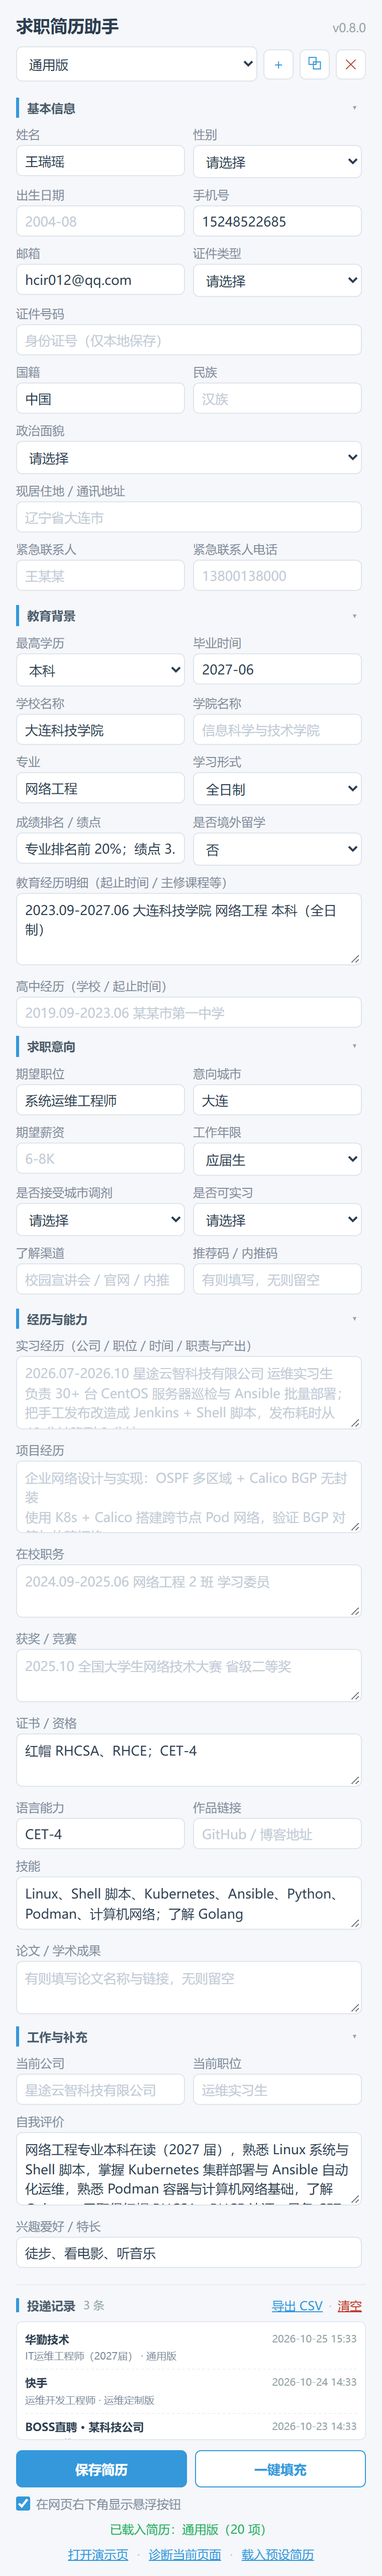
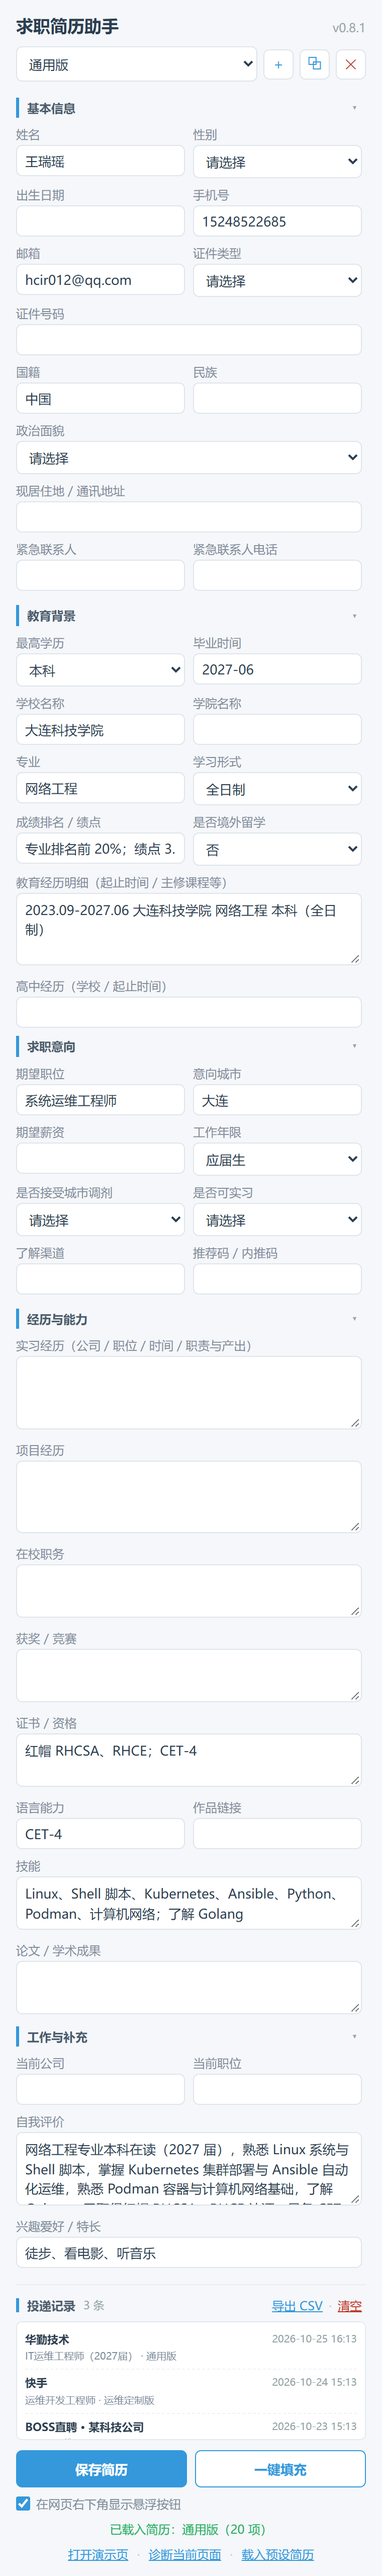
fix: 表单去掉 35 处灰色占位示例文字，空字段保持空白，v0.8.1

diff --git a/popup.html b/popup.html
@@ -30,7 +30,7 @@
         <div class="row">
           <label class="field">
             <span class="field-label">姓名</span>
-            <input type="text" name="name" placeholder="王瑞瑶" />
+            <input type="text" name="name" />
           </label>
           <label class="field">
             <span class="field-label">性别</span>
@@ -45,18 +45,18 @@
         <div class="row">
           <label class="field">
             <span class="field-label">出生日期</span>
-            <input type="text" name="birth" placeholder="2004-08" />
+            <input type="text" name="birth" />
           </label>
           <label class="field">
             <span class="field-label">手机号</span>
-            <input type="tel" name="phone" placeholder="15248522685" />
+            <input type="tel" name="phone" />
           </label>
         </div>
 
         <div class="row">
           <label class="field">
             <span class="field-label">邮箱</span>
-            <input type="email" name="email" placeholder="hcir012@qq.com" />
+            <input type="email" name="email" />
           </label>
           <label class="field">
             <span class="field-label">证件类型</span>
@@ -72,17 +72,17 @@
 
         <label class="field">
           <span class="field-label">证件号码</span>
-          <input type="text" name="idCard" placeholder="身份证号（仅本地保存）" />
+          <input type="text" name="idCard" />
         </label>
 
         <div class="row">
           <label class="field">
             <span class="field-label">国籍</span>
-            <input type="text" name="nationality" placeholder="中国" />
+            <input type="text" name="nationality" />
           </label>
           <label class="field">
             <span class="field-label">民族</span>
-            <input type="text" name="nation" placeholder="汉族" />
+            <input type="text" name="nation" />
           </label>
         </div>
 
@@ -101,17 +101,17 @@
 
         <label class="field">
           <span class="field-label">现居住地 / 通讯地址</span>
-          <input type="text" name="address" placeholder="辽宁省大连市" />
+          <input type="text" name="address" />
         </label>
 
         <div class="row">
           <label class="field">
             <span class="field-label">紧急联系人</span>
-            <input type="text" name="emergencyContact" placeholder="王某某" />
+            <input type="text" name="emergencyContact" />
           </label>
           <label class="field">
             <span class="field-label">紧急联系人电话</span>
-            <input type="tel" name="emergencyPhone" placeholder="13800138000" />
+            <input type="tel" name="emergencyPhone" />
           </label>
         </div>
       </details>
@@ -133,25 +133,25 @@
           </label>
           <label class="field">
             <span class="field-label">毕业时间</span>
-            <input type="text" name="graduationYear" placeholder="2027-06" />
+            <input type="text" name="graduationYear" />
           </label>
         </div>
 
         <div class="row">
           <label class="field">
             <span class="field-label">学校名称</span>
-            <input type="text" name="school" placeholder="大连科技学院" />
+            <input type="text" name="school" />
           </label>
           <label class="field">
             <span class="field-label">学院名称</span>
-            <input type="text" name="college" placeholder="信息科学与技术学院" />
+            <input type="text" name="college" />
           </label>
         </div>
 
         <div class="row">
           <label class="field">
             <span class="field-label">专业</span>
-            <input type="text" name="major" placeholder="网络工程" />
+            <input type="text" name="major" />
           </label>
           <label class="field">
             <span class="field-label">学习形式</span>
@@ -166,7 +166,7 @@
         <div class="row">
           <label class="field">
             <span class="field-label">成绩排名 / 绩点</span>
-            <input type="text" name="gpaRank" placeholder="专业前 20%；绩点 3.14" />
+            <input type="text" name="gpaRank" />
           </label>
           <label class="field">
             <span class="field-label">是否境外留学</span>
@@ -180,12 +180,12 @@
 
         <label class="field">
           <span class="field-label">教育经历明细（起止时间 / 主修课程等）</span>
-          <textarea name="eduDetail" rows="3" placeholder="2023.09-2027.06 大连科技学院 网络工程 本科（全日制）&#10;专业排名前 20%；主修计算机网络、Linux 系统管理、K8s 容器编排"></textarea>
+          <textarea name="eduDetail" rows="3"></textarea>
         </label>
 
         <label class="field">
           <span class="field-label">高中经历（学校 / 起止时间）</span>
-          <input type="text" name="highSchool" placeholder="2019.09-2023.06 某某市第一中学" />
+          <input type="text" name="highSchool" />
         </label>
       </details>
 
@@ -196,18 +196,18 @@
         <div class="row">
           <label class="field">
             <span class="field-label">期望职位</span>
-            <input type="text" name="expectPosition" placeholder="系统运维工程师" />
+            <input type="text" name="expectPosition" />
           </label>
           <label class="field">
             <span class="field-label">意向城市</span>
-            <input type="text" name="expectCity" placeholder="大连 / 上海" />
+            <input type="text" name="expectCity" />
           </label>
         </div>
 
         <div class="row">
           <label class="field">
             <span class="field-label">期望薪资</span>
-            <input type="text" name="expectSalary" placeholder="6-8K" />
+            <input type="text" name="expectSalary" />
           </label>
           <label class="field">
             <span class="field-label">工作年限</span>
@@ -244,11 +244,11 @@
         <div class="row">
           <label class="field">
             <span class="field-label">了解渠道</span>
-            <input type="text" name="sourceChannel" placeholder="校园宣讲会 / 官网 / 内推" />
+            <input type="text" name="sourceChannel" />
           </label>
           <label class="field">
             <span class="field-label">推荐码 / 内推码</span>
-            <input type="text" name="referrerCode" placeholder="有则填写，无则留空" />
+            <input type="text" name="referrerCode" />
           </label>
         </div>
       </details>
@@ -259,48 +259,48 @@
 
         <label class="field">
           <span class="field-label">实习经历（公司 / 职位 / 时间 / 职责与产出）</span>
-          <textarea name="internshipExp" rows="3" placeholder="2026.07-2026.10 星途云智科技有限公司 运维实习生&#10;负责 30+ 台 CentOS 服务器巡检与 Ansible 批量部署；把手工发布改造成 Jenkins + Shell 脚本，发布耗时从 40 分钟降到 8 分钟。"></textarea>
+          <textarea name="internshipExp" rows="3"></textarea>
         </label>
 
         <label class="field">
           <span class="field-label">项目经历</span>
-          <textarea name="projectExp" rows="3" placeholder="企业网络设计与实现：OSPF 多区域 + Calico BGP 无封装&#10;使用 K8s + Calico 搭建跨节点 Pod 网络，验证 BGP 对等与故障切换。"></textarea>
+          <textarea name="projectExp" rows="3"></textarea>
         </label>
 
         <label class="field">
           <span class="field-label">在校职务</span>
-          <textarea name="campusExp" rows="2" placeholder="2024.09-2025.06 网络工程 2 班 学习委员"></textarea>
+          <textarea name="campusExp" rows="2"></textarea>
         </label>
 
         <label class="field">
           <span class="field-label">获奖 / 竞赛</span>
-          <textarea name="awards" rows="2" placeholder="2025.10 全国大学生网络技术大赛 省级二等奖"></textarea>
+          <textarea name="awards" rows="2"></textarea>
         </label>
 
         <label class="field">
           <span class="field-label">证书 / 资格</span>
-          <textarea name="certificates" rows="2" placeholder="红帽 RHCSA、RHCE；CET-4"></textarea>
+          <textarea name="certificates" rows="2"></textarea>
         </label>
 
         <div class="row">
           <label class="field">
             <span class="field-label">语言能力</span>
-            <input type="text" name="languageLevel" placeholder="CET-4（520 分）" />
+            <input type="text" name="languageLevel" />
           </label>
           <label class="field">
             <span class="field-label">作品链接</span>
-            <input type="text" name="portfolio" placeholder="GitHub / 博客地址" />
+            <input type="text" name="portfolio" />
           </label>
         </div>
 
         <label class="field">
           <span class="field-label">技能</span>
-          <textarea name="skills" rows="2" placeholder="Linux、Shell、Kubernetes、Ansible、Python、Podman、计算机网络，了解 Golang"></textarea>
+          <textarea name="skills" rows="2"></textarea>
         </label>
 
         <label class="field">
           <span class="field-label">论文 / 学术成果</span>
-          <textarea name="papers" rows="2" placeholder="有则填写论文名称与链接，无则留空"></textarea>
+          <textarea name="papers" rows="2"></textarea>
         </label>
       </details>
 
@@ -311,22 +311,22 @@
         <div class="row">
           <label class="field">
             <span class="field-label">当前公司</span>
-            <input type="text" name="currentCompany" placeholder="星途云智科技有限公司" />
+            <input type="text" name="currentCompany" />
           </label>
           <label class="field">
             <span class="field-label">当前职位</span>
-            <input type="text" name="currentPosition" placeholder="运维实习生" />
+            <input type="text" name="currentPosition" />
           </label>
         </div>
 
         <label class="field">
           <span class="field-label">自我评价</span>
-          <textarea name="selfIntro" rows="3" placeholder="熟悉 Linux 系统与 Shell 脚本，掌握 K8s 集群部署与 Ansible 自动化运维……"></textarea>
+          <textarea name="selfIntro" rows="3"></textarea>
         </label>
 
         <label class="field">
           <span class="field-label">兴趣爱好 / 特长</span>
-          <input type="text" name="hobbies" placeholder="徒步、看电影、听音乐" />
+          <input type="text" name="hobbies" />
         </label>
       </details>
     </form>

diff --git a/CHANGELOG.md b/CHANGELOG.md
@@ -2,6 +2,13 @@
 
 本项目的所有版本变更都记录在这里。版本号遵循 `主版本.次版本.修订号`，每个功能完成并实测通过后单独提交，提交信息遵循 `feat:` / `fix:` 规范。
 
+## v0.8.1 · 2026-10-25
+
+### 改进
+
+- 面板表单**去掉全部 35 处灰色占位示例文字**（`placeholder`）。以前空字段会显示「汉族」「大连科技学院」这类灰色样例，容易让人误以为是已填内容；现在空字段就是空白，只有真实保存的值才会显示。
+- 下拉框保留「请选择」空选项作为未填标记，避免默认选中第一个真实值（如性别被误显示为「男」）。
+
 ## v0.8.0 · 2026-10-25
 
 ### 新增

diff --git a/README.md b/README.md
@@ -26,6 +26,7 @@
 | 投递记录导出 CSV（Excel 可直接打开） | ✅ 已完成（v0.6.0） |
 | 内置预设简历一键载入（换设备/答辩演示快速就绪） | ✅ 已完成（v0.7.0） |
 | 表单字段扩展到 44 项（Moka 华勤 + 快手申请表字段并集去重） | ✅ 已完成（v0.8.0） |
+| 表单去掉灰色占位示例文字，空字段保持空白 | ✅ 已完成（v0.8.1） |
 
 ## 支持的招聘网站
 
